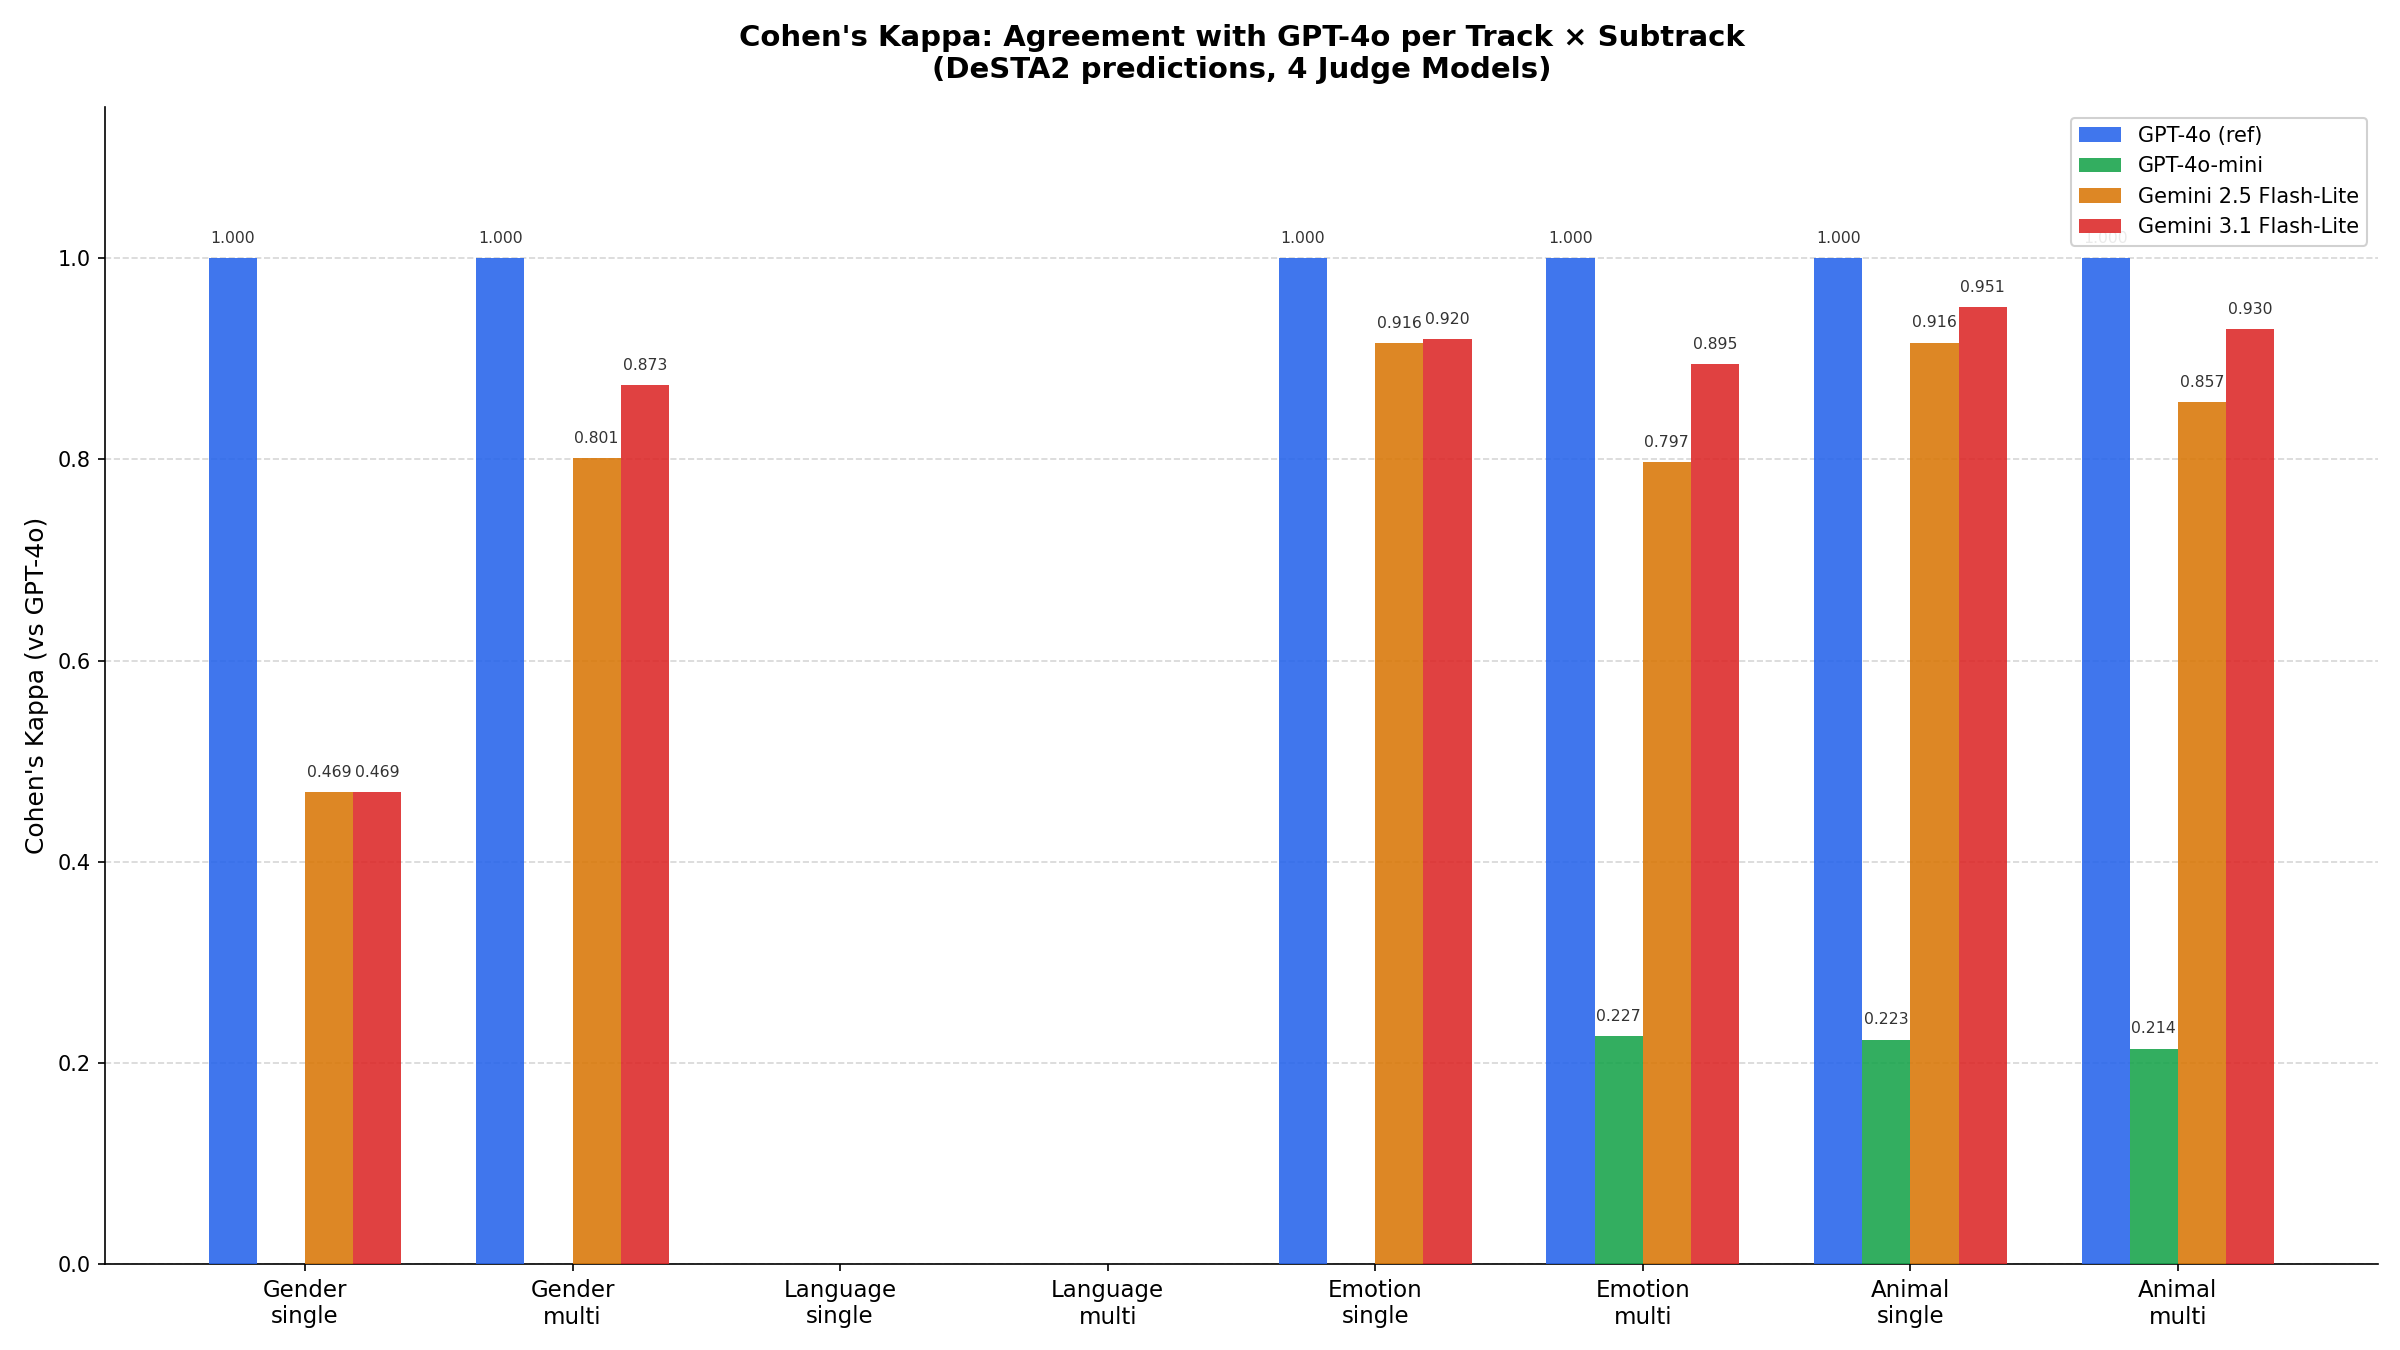
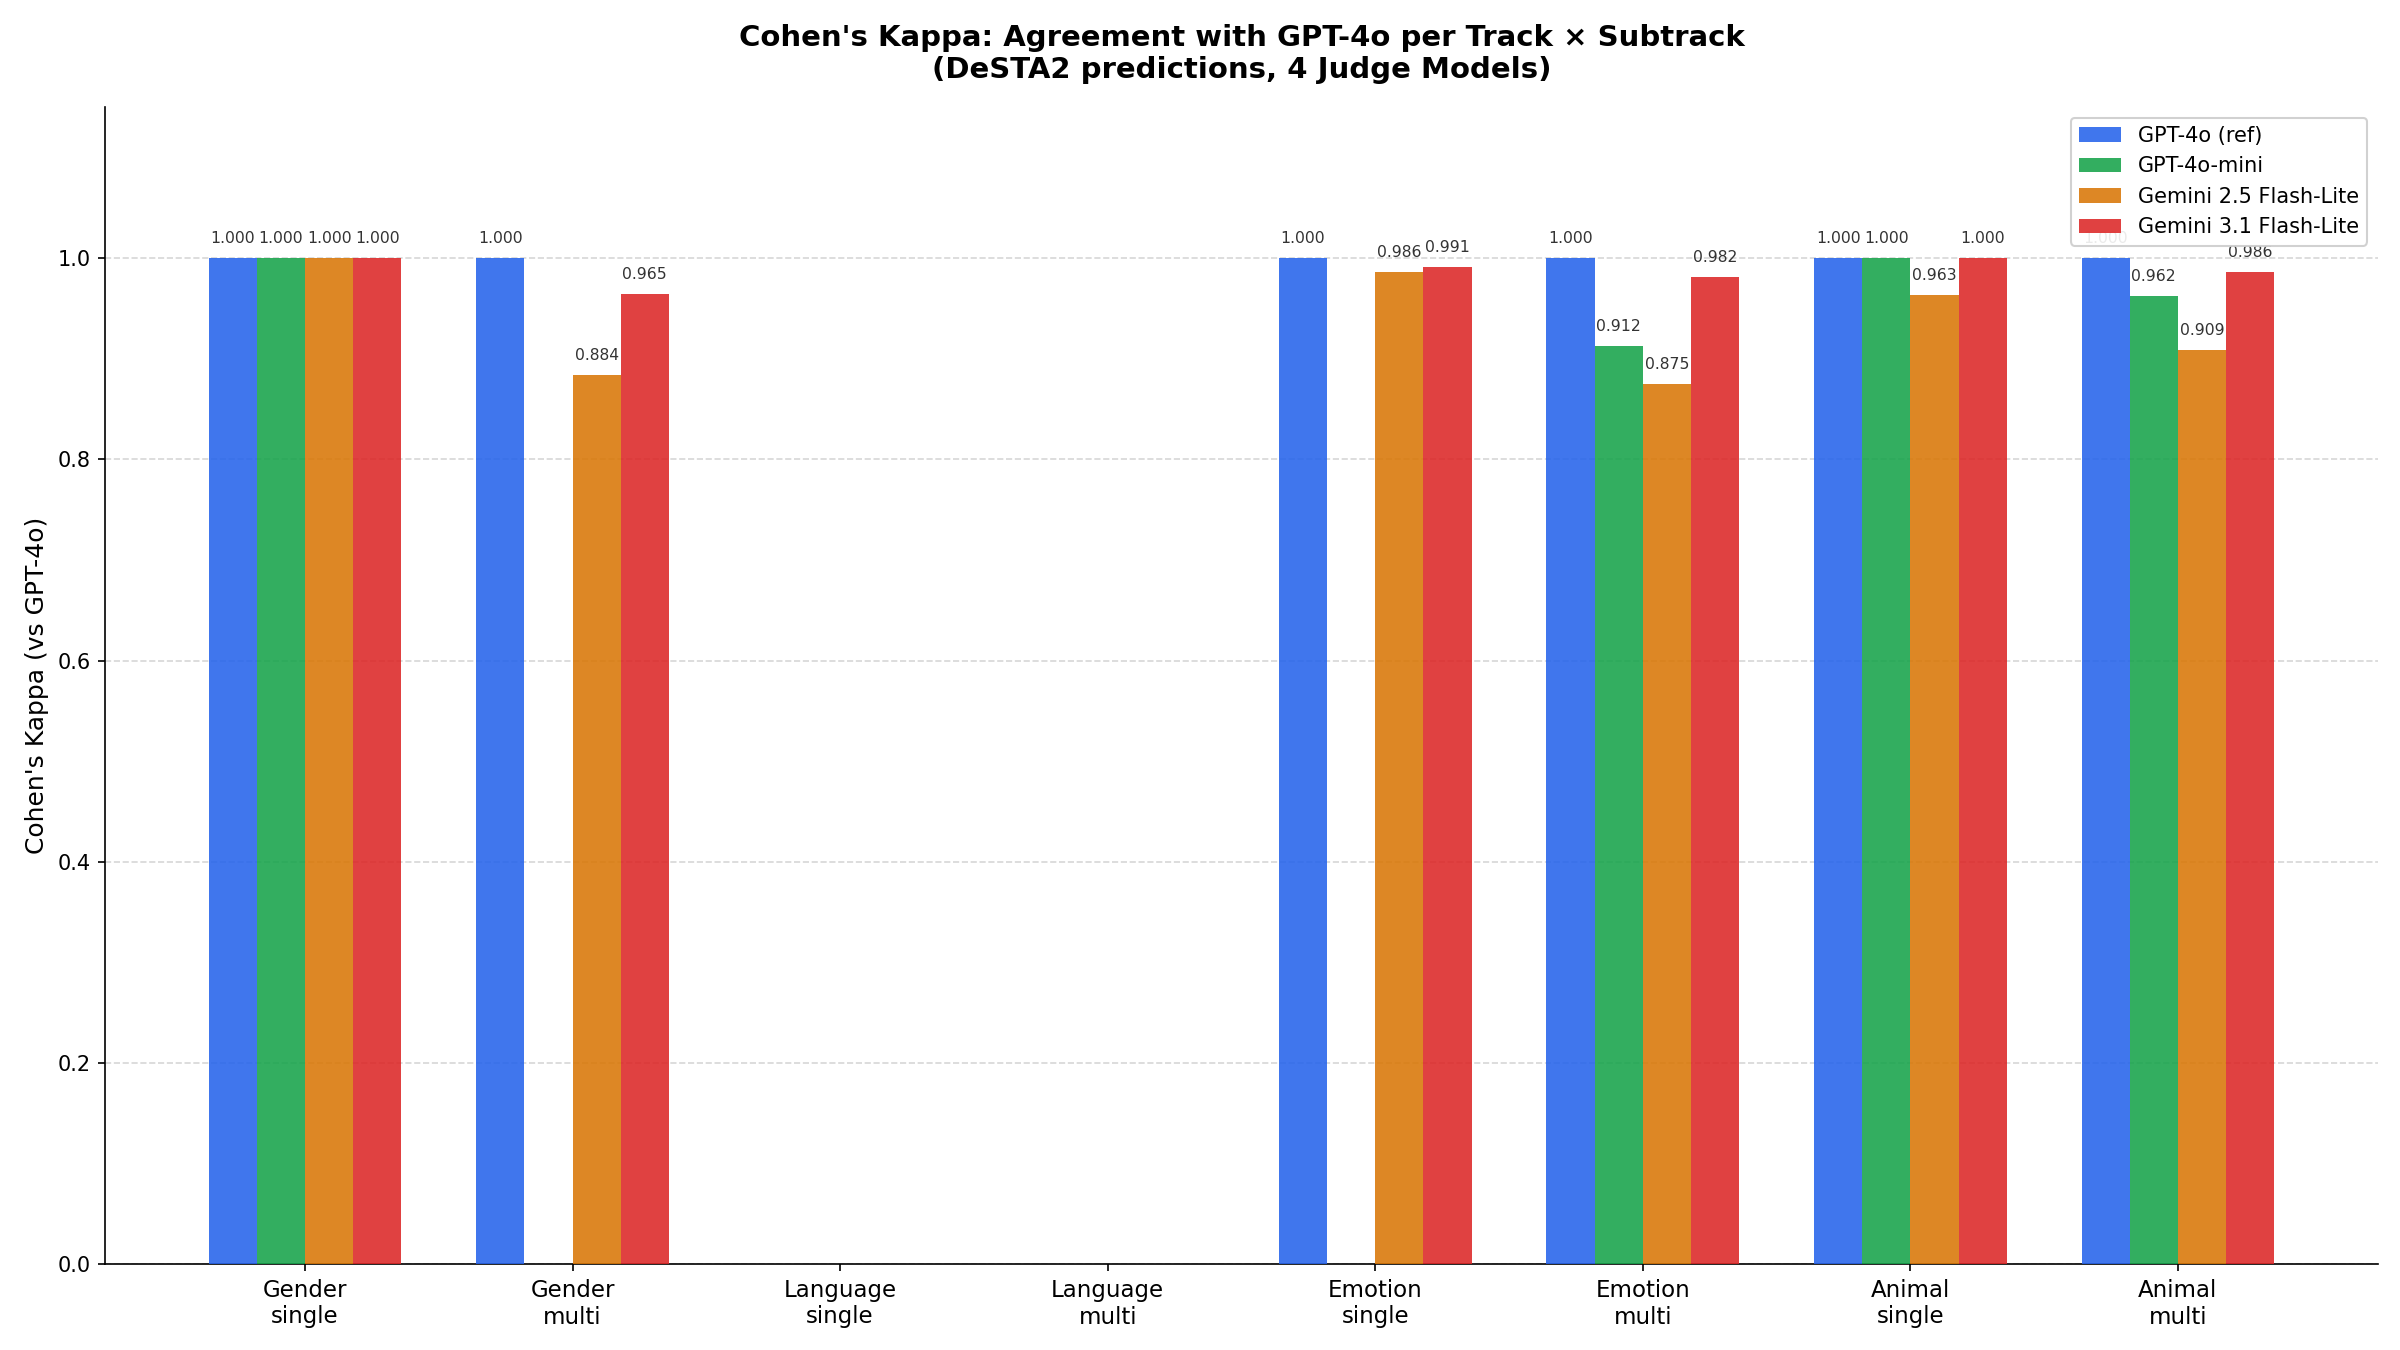
Fix accuracy and kappa calculation: exclude error items from denominator
- compare_judges.py: use valid (correct+incorrect) as denominator, show coverage %
- compute_kappa.py: filter out error judgements before kappa computation
- Updated results: kappa values now 0.87-1.00 (was artificially low due to errors)

diff --git a/compare_judges.py b/compare_judges.py
@@ -15,13 +15,15 @@ def calc_acc(path: str) -> dict:
         1 for v in data["results"].values()
         if v["Judgement"].lower().strip() == "correct"
     )
-    total = len(data["results"])
-    invalid = total - correct - sum(
+    incorrect = sum(
         1 for v in data["results"].values()
         if v["Judgement"].lower().strip() == "incorrect"
     )
-    return {"correct": correct, "total": total, "invalid": invalid,
-            "accuracy": correct / total * 100 if total else 0}
+    total_all = len(data["results"])
+    valid = correct + incorrect   # exclude errors from denominator
+    return {"correct": correct, "valid": valid, "total": total_all,
+            "coverage": valid / total_all * 100 if total_all else 0,
+            "accuracy": correct / valid * 100 if valid else 0}
 
 
 def main():
@@ -64,9 +66,10 @@ def main():
         for judge in args.judges:
             r = judge_results.get(judge)
             if r:
-                row += f"{r['accuracy']:>{col_w}.2f}"
+                cov = f"({r['coverage']:.0f}%)" if r['coverage'] < 100 else ""
+                row += f"{r['accuracy']:>{col_w}.2f}{cov:<4}"
                 all_correct[judge] += r["correct"]
-                all_total[judge] += r["total"]
+                all_total[judge] += r["valid"]
             else:
                 row += f"{'N/A':>{col_w}}"
         print(row)

diff --git a/compute_kappa.py b/compute_kappa.py
@@ -32,13 +32,17 @@ LABELS = {
 
 
 def load_judgements(judge_dir: Path, judge: str, track: str, sub: str):
-    """Return dict of {audio_path: 'correct'|'incorrect'} for one judge/track/sub."""
+    """Return dict of {audio_path: 'correct'|'incorrect'}, errors excluded."""
     path = judge_dir / judge / f"desta2_{track}_{sub}_judgements.json"
     if not path.exists():
         return None
     with open(path) as f:
         data = json.load(f)
-    return {k: v["Judgement"].strip().lower() for k, v in data["results"].items()}
+    return {
+        k: v["Judgement"].strip().lower()
+        for k, v in data["results"].items()
+        if v["Judgement"].strip().lower() in ("correct", "incorrect")
+    }
 
 
 def cohen_kappa(labels_a: list, labels_b: list) -> float: